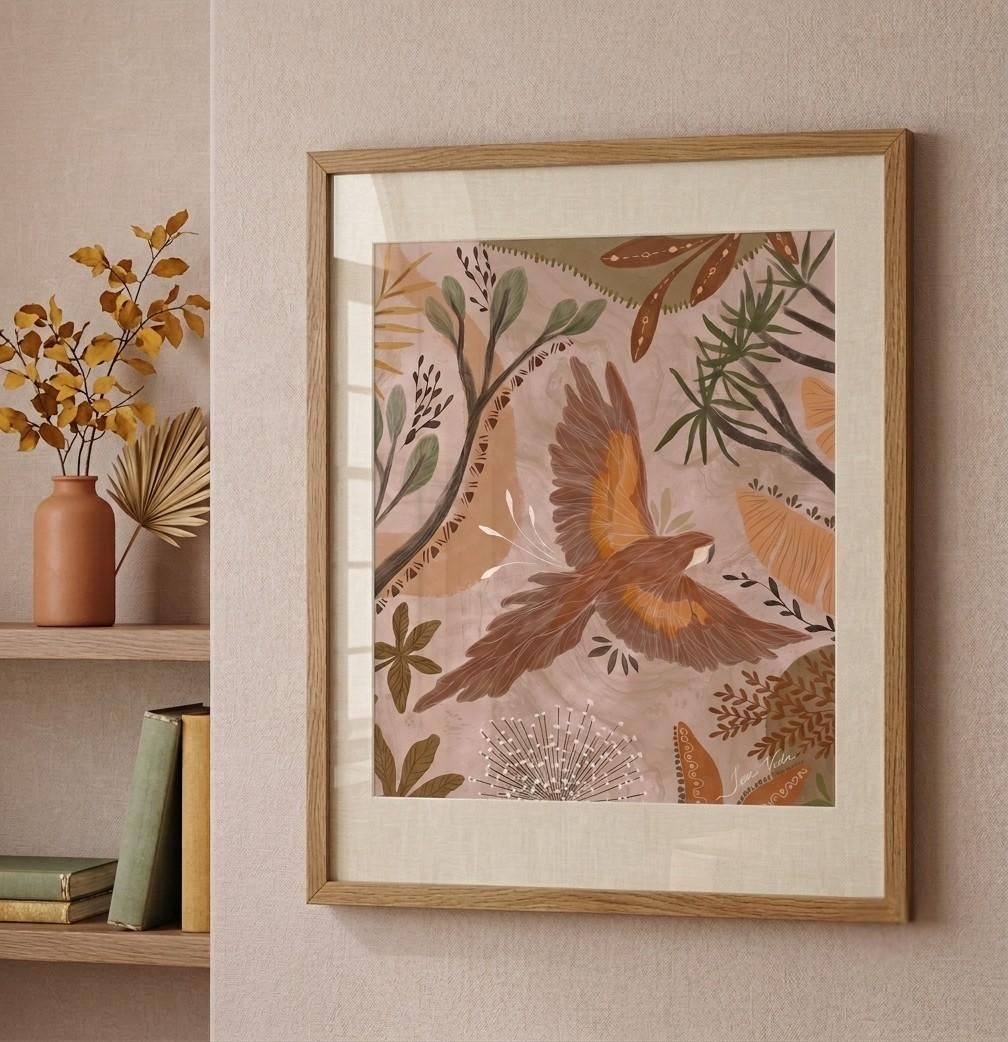
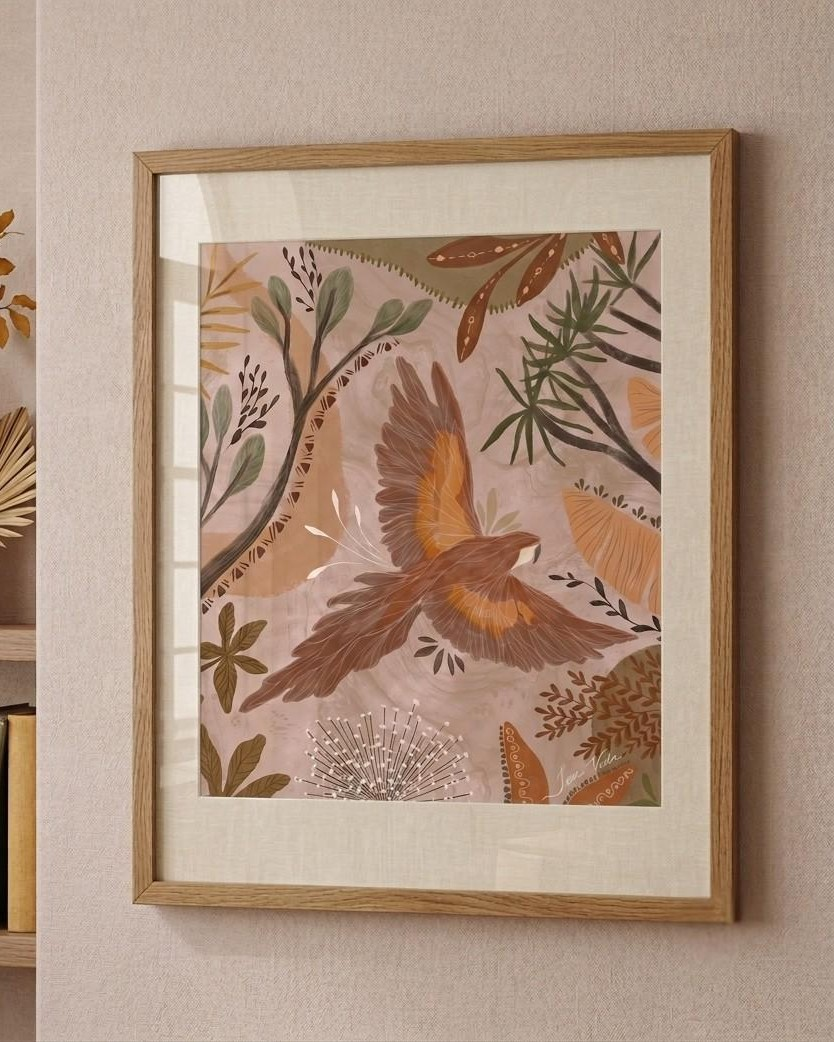
feat(prints): coleção Lembrete + prints Marrocco e Cerrado completos
- Lembrete: 4 prints com frases (Artista, Alma, Paixão, Cerrado) — cada um com carrossel de 2 imagens
- Cerrado: mockup Carcará, mockup e mão Arara reordenados
- Marrocco: prints Deserto e Fonte com carrossel arte+mockup
- Filtro de aquecimento na primeira foto do Tucano
- Layout de preço em coluna vertical; texto branco em fundos escuros

diff --git a/app/prints/page.tsx b/app/prints/page.tsx
@@ -15,9 +15,9 @@ const colecoes = [
     nome: "Cerrado",
     desc: "A vegetação torcida, a terra vermelha e o céu imenso do Cerrado em papel aquarela.",
     prints: [
-      { id: "c1", titulo: "Tucano",   srcs: ["/prints/tucano.png", "/prints/tucano-arte.jpg"] },
-      { id: "c2", titulo: "Carcará",  srcs: ["/prints/ilustracao-a.png"] },
-      { id: "c3", titulo: "Arara",    srcs: ["/prints/arara-mockup.jpg", "/prints/img3328.png"], positions: ["60% center", "center center"] },
+      { id: "c1", titulo: "Tucano",   srcs: ["/prints/tucano-arte.jpg", "/prints/tucano.png"], filters: [undefined, "brightness(0.82) saturate(0.95) contrast(1.05)"] },
+      { id: "c2", titulo: "Carcará",  srcs: ["/prints/ilustracao-a.png", "/prints/carcara-mockup.jpg"] },
+      { id: "c3", titulo: "Arara",    srcs: ["/prints/img3328.png", "/prints/arara-mockup.jpg", "/prints/arara-mao.png"], positions: ["center center", "57% center", "center center"] },
       { id: "c4", titulo: "Em breve", srcs: [null] },
     ],
   },
@@ -37,10 +37,8 @@ const colecoes = [
     nome: "Marrocco",
     desc: "Cores, padrões e a luz dourada de Marrocos impressos com pigmentos e aquarela.",
     prints: [
-      { id: "m1", titulo: "Palmeiras", srcs: ["/prints/img9067.png"] },
-      { id: "m2", titulo: "Em breve",  srcs: [null] },
-      { id: "m3", titulo: "Em breve",  srcs: [null] },
-      { id: "m4", titulo: "Em breve",  srcs: [null] },
+      { id: "m1", titulo: "Fonte",    srcs: ["/prints/img9067.png", "/prints/palmeiras-arte.jpg"] },
+      { id: "m2", titulo: "Deserto", srcs: ["/prints/deserto-mockup.jpg", "/prints/deserto-arte.jpg"] },
     ],
   },
   {
@@ -48,10 +46,10 @@ const colecoes = [
     nome: "Lembrete",
     desc: "Palavras e imagens que lembram do que importa. Para ter sempre à vista.",
     prints: [
-      { id: "l1", titulo: "Em breve", srcs: [null] },
-      { id: "l2", titulo: "Em breve", srcs: [null] },
-      { id: "l3", titulo: "Em breve", srcs: [null] },
-      { id: "l4", titulo: "Em breve", srcs: [null] },
+      { id: "l1", titulo: "Artista",  srcs: ["/prints/lembrete-2.png", "/prints/lembrete-artista-nao-desistiu.jpg"] },
+      { id: "l2", titulo: "Alma",     srcs: ["/prints/lembrete-alma.jpg", "/prints/lembrete-sente.jpg"] },
+      { id: "l3", titulo: "Paixão",   srcs: ["/prints/lembrete-paixao.jpg", "/prints/lembrete-deus.jpg"] },
+      { id: "l4", titulo: "Cerrado",  srcs: ["/prints/lembrete-cerrado.jpg", "/prints/lembrete-pequenas-acoes.jpg"] },
     ],
   },
 ];
@@ -91,7 +89,7 @@ export default function PrintsPage() {
           } : undefined}
         >
           {(col.slug === "cerrado" || col.slug === "marrocco") && (
-            <div className="absolute inset-0 bg-terra/50" />
+            <div className={`absolute inset-0 ${col.slug === "cerrado" ? "bg-terra/68" : "bg-terra/50"}`} />
           )}
           <div className="relative max-w-md mx-auto">
             {/* header da coleção */}
@@ -104,10 +102,10 @@ export default function PrintsPage() {
             </Reveal>
 
             {/* grade de prints */}
-            <div className="grid grid-cols-2 gap-4">
+            <div className={`grid gap-4 ${col.slug === "marrocco" ? "grid-cols-1 w-1/2 mx-auto" : "grid-cols-2"}`}>
               {col.prints.map((p, i) => (
                 <Reveal key={p.id} dir="up" delay={i * 60}>
-                  <PrintCard titulo={p.titulo} srcs={p.srcs} positions={(p as any).positions} dark={col.slug === "cerrado" || col.slug === "marrocco"} />
+                  <PrintCard titulo={p.titulo} srcs={p.srcs} positions={(p as any).positions} filters={(p as any).filters} dark={col.slug === "cerrado" || col.slug === "marrocco"} />
                 </Reveal>
               ))}
             </div>

diff --git a/app/prints/PrintCard.tsx b/app/prints/PrintCard.tsx
@@ -19,11 +19,13 @@ export default function PrintCard({
   titulo,
   srcs,
   positions = [],
+  filters = [],
   dark = false,
 }: {
   titulo: string;
   srcs: (string | null)[];
   positions?: string[];
+  filters?: string[];
   dark?: boolean;
 }) {
   const [tam, setTam] = useState<Tamanho>("A4");
@@ -65,7 +67,7 @@ export default function PrintCard({
             >
               {imagens.map((src, i) => (
                 <div key={i} className="h-full w-full shrink-0 snap-start">
-                  <img src={src} alt={titulo} className="h-full w-full object-cover" style={{ objectPosition: positions[i] ?? "center center" }} loading="lazy" />
+                  <img src={src} alt={titulo} className="h-full w-full object-cover" style={{ objectPosition: positions[i] ?? "center center", filter: filters[i] ?? undefined }} loading="lazy" />
                 </div>
               ))}
             </div>